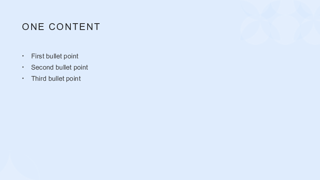
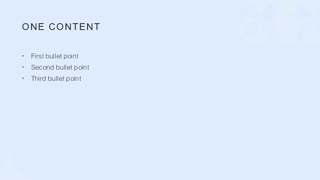
Even out blue child and business column leading on dense continuations
blue-corporate One Content child levels (lvl3-5) inherited the master's
90% leading under 140% parents; give them the parent leading. The
business-template Two Content columns open from 110% to 120% together.
Native corner-circle and yellow-disc artwork is kept: reviewers found it
clear of text and the bead requires preserving artwork assets.

Skill-Sync-Exempt: template typography repair, no agent-visible schema or response change

Changed region(s): [[0.0938, 0.4167, 0.25, 0.4722], [0.0938, 0.3611, 0.2812, 0.3889], [0.0938, 0.3056, 0.25, 0.3333]]

diff --git a/scripts/repair_reviewed_templates.go b/scripts/repair_reviewed_templates.go
@@ -31,6 +31,10 @@ func main() {
 			repair = repairYellowClosingGrouping
 		case "--pstyle-column-hierarchy":
 			repair = repairPStyleColumnHierarchy
+		case "--blue-child-leading":
+			repair = repairBlueChildLeading
+		case "--business-column-leading":
+			repair = repairBusinessColumnLeading
 		default:
 			panic("unknown reviewed repair")
 		}
@@ -102,6 +106,63 @@ func repairPStyleColumnHierarchy(path string) error {
 		})
 	}
 	return fmt.Errorf("reviewed column layout missing")
+}
+
+// Blue One Content bullets start at native level2 with children at level3,
+// which inherited the master's 90% leading under 140% parents. Give the child
+// levels the parent leading so hierarchy reads by size and indent, not crowding.
+func repairBlueChildLeading(path string) error {
+	return repairReviewedParts(path, "blue-child-leading-before.pptx", map[string]reviewedPartRepair{
+		"ppt/slideLayouts/slideLayout2.xml": {
+			old:         `<a:lvl3pPr><a:defRPr sz="1600"/></a:lvl3pPr><a:lvl4pPr><a:defRPr sz="1600"/></a:lvl4pPr><a:lvl5pPr><a:defRPr sz="1400"/></a:lvl5pPr>`,
+			replacement: `<a:lvl3pPr><a:lnSpc><a:spcPct val="140000"/></a:lnSpc><a:defRPr sz="1600"/></a:lvl3pPr><a:lvl4pPr><a:lnSpc><a:spcPct val="140000"/></a:lnSpc><a:defRPr sz="1600"/></a:lvl4pPr><a:lvl5pPr><a:lnSpc><a:spcPct val="140000"/></a:lnSpc><a:defRPr sz="1400"/></a:lvl5pPr>`,
+			guards:      []string{`name="body"`, `<a:lvl2pPr><a:lnSpc><a:spcPct val="140000"/></a:lnSpc><a:defRPr sz="2000"/></a:lvl2pPr>`},
+		},
+	})
+}
+
+// Business Two Content columns set four-line paragraphs at 110%, which read
+// cramped on dense continuations. Open both columns to 120% together.
+func repairBusinessColumnLeading(path string) error {
+	const old = `<a:lvl1pPr><a:lnSpc><a:spcPct val="110000"/></a:lnSpc><a:defRPr sz="1800"/></a:lvl1pPr><a:lvl2pPr><a:lnSpc><a:spcPct val="110000"/></a:lnSpc><a:defRPr sz="1600"/></a:lvl2pPr>`
+	const replacement = `<a:lvl1pPr><a:lnSpc><a:spcPct val="120000"/></a:lnSpc><a:defRPr sz="1800"/></a:lvl1pPr><a:lvl2pPr><a:lnSpc><a:spcPct val="120000"/></a:lnSpc><a:defRPr sz="1600"/></a:lvl2pPr>`
+	return repairWholePart(path, "business-column-leading-before.pptx", "ppt/slideLayouts/slideLayout5.xml", old, replacement, 2,
+		[]string{`name="Two Content"`, `name="body"`, `name="body_2"`})
+}
+
+// repairWholePart rewrites every occurrence of old in one part, requiring the
+// part to hold exactly want occurrences of either old or replacement (never a
+// partial mix), so all sibling placeholders change together.
+func repairWholePart(path, backup, part, old, replacement string, want int, guards []string) error {
+	z, err := zip.OpenReader(path)
+	if err != nil {
+		return err
+	}
+	defer z.Close()
+	for _, e := range z.File {
+		if e.Name != part {
+			continue
+		}
+		r, err := e.Open()
+		if err != nil {
+			return err
+		}
+		data, err := io.ReadAll(r)
+		_ = r.Close()
+		if err != nil {
+			return err
+		}
+		oldCount, newCount := bytes.Count(data, []byte(old)), bytes.Count(data, []byte(replacement))
+		if !((oldCount == want && newCount == 0) || (oldCount == 0 && newCount == want)) {
+			return fmt.Errorf("unexpected reviewed typography in %s", part)
+		}
+		before := strings.ReplaceAll(string(data), replacement, old)
+		after := strings.ReplaceAll(before, old, replacement)
+		return repairReviewedParts(path, backup, map[string]reviewedPartRepair{
+			part: {old: before, replacement: after, guards: guards},
+		})
+	}
+	return fmt.Errorf("reviewed layout %s missing", part)
 }
 
 // A reusable content heading needs stronger hierarchy than ordinary body text.
